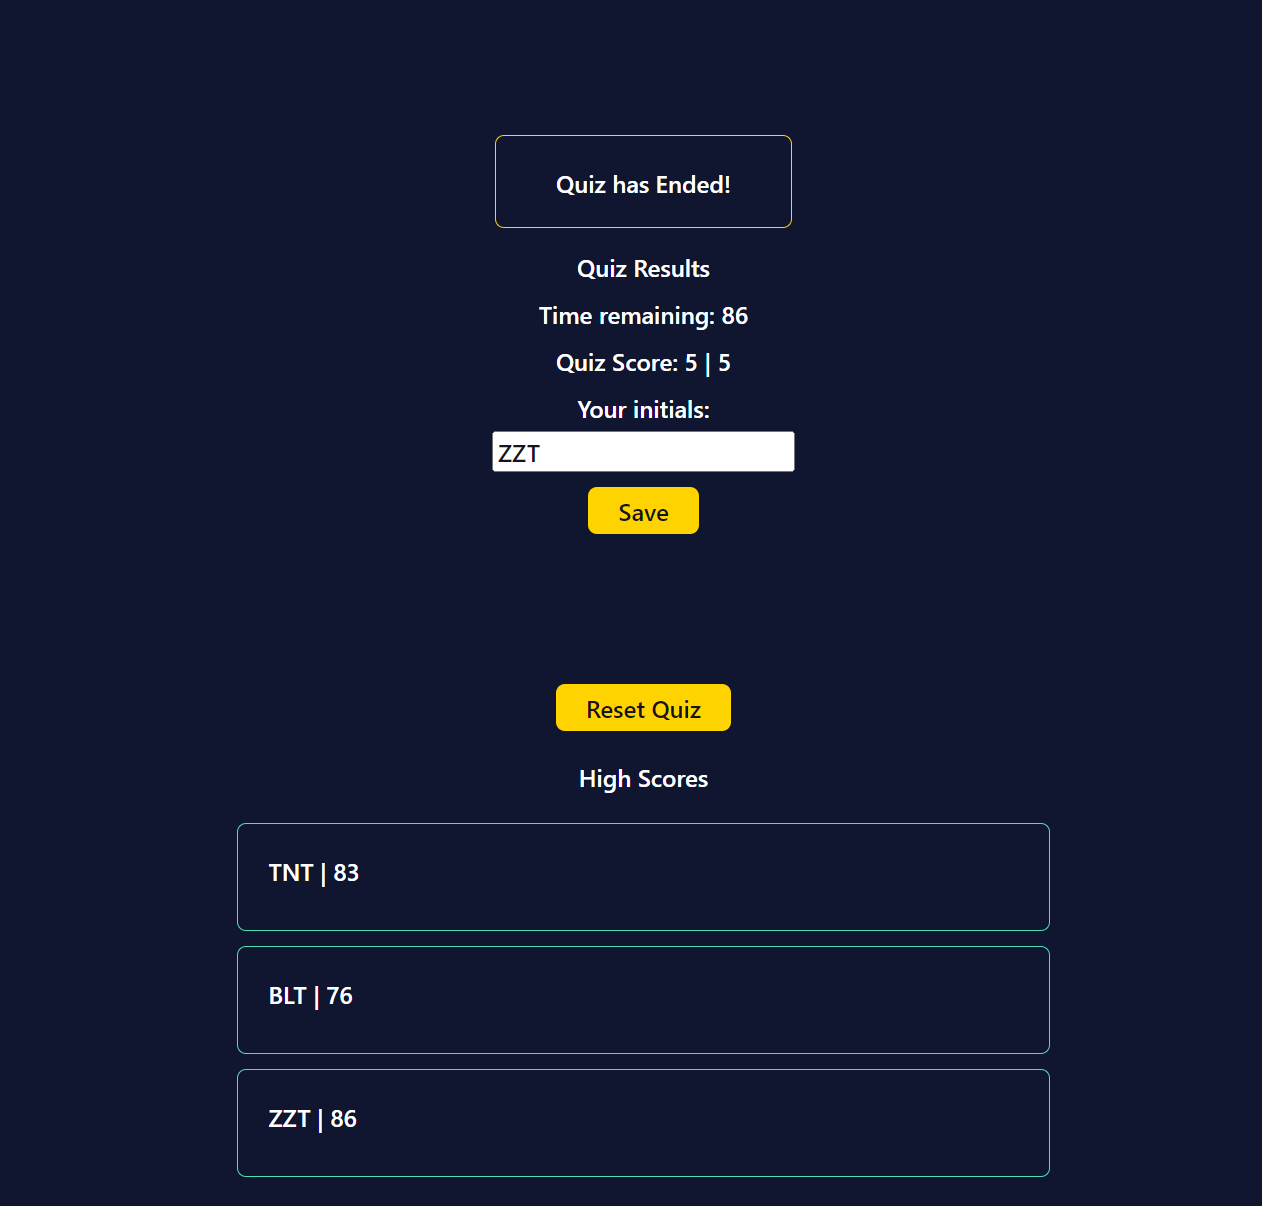
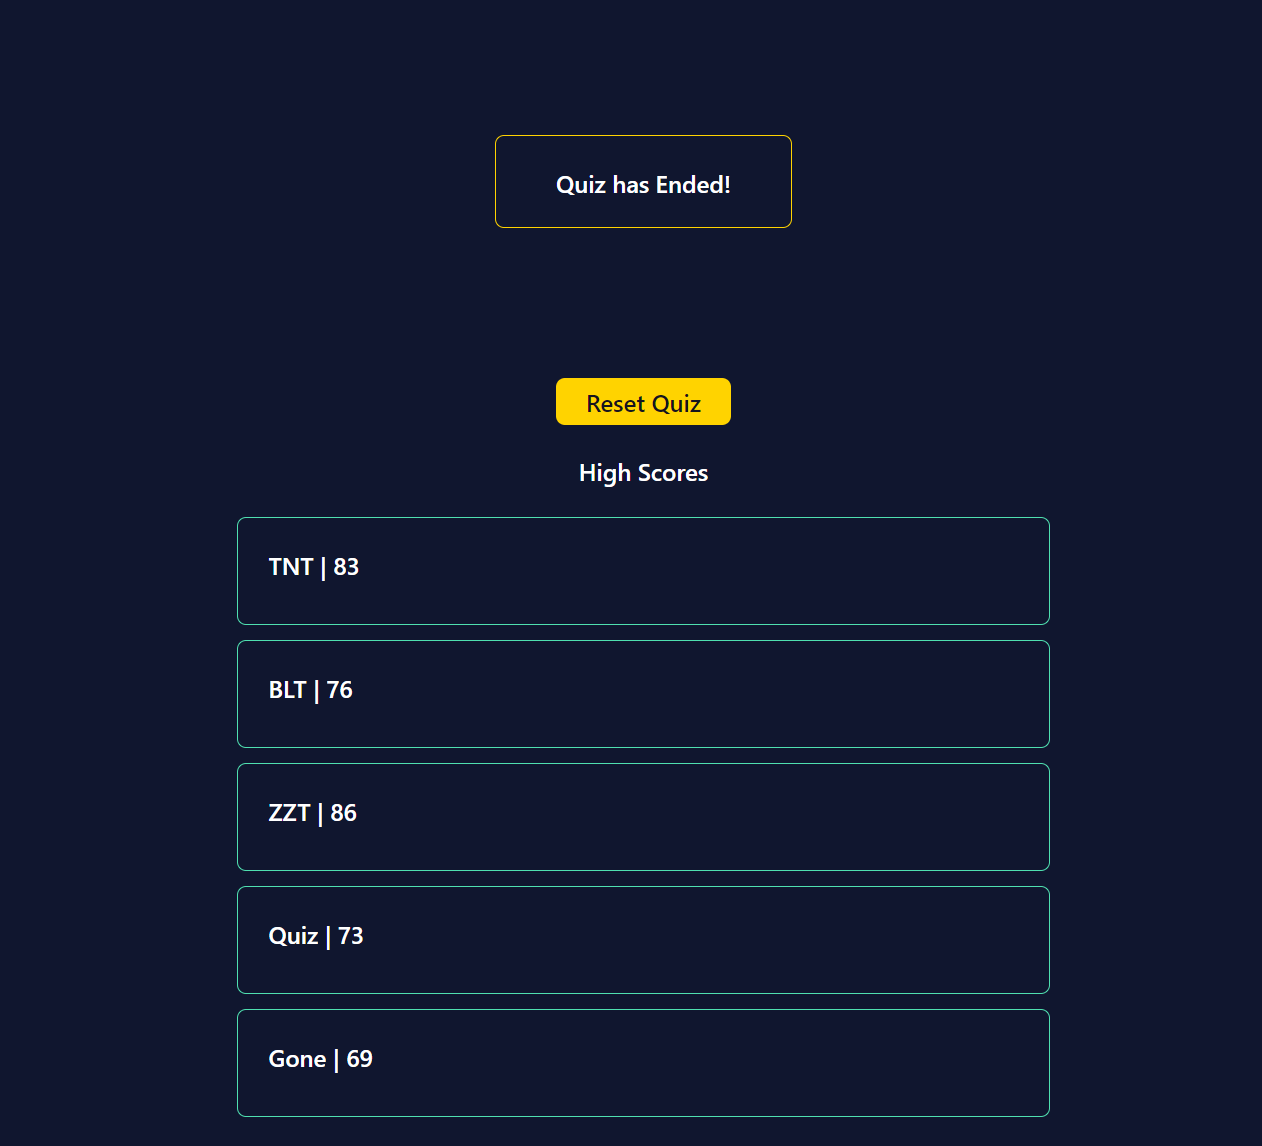
Cleaned up code, minor css fixes

diff --git a/assets/js/script.js b/assets/js/script.js
@@ -1,4 +1,4 @@
-//Object with collection of properties made up of key value pairs.
+// Object with collection of properties made up of key value pairs. Holds questions, choices and correct answer "ans".
 var interrogation = [
     {
         queryTitle: 'Which statement is true about while loops?',
@@ -42,26 +42,26 @@ var interrogation = [
     },
 ];
 
-//Starting variables. Score and quiz index value.
+// Starting variables. Score and quiz index value.
 var quizScore = 0;
 var quizIndex = 0; 
 
-//Variables that access elements on the page. 
+// Variables that access elements on the page. 
 var quizClock = document.querySelector("#quizClock");
 var quizStart = document.querySelector("#quizStart");
 var quizQueries = document.querySelector("#quizQueries");
-var mainWrapper = document.querySelector("#mainWrapper");
+// var mainWrapper = document.querySelector("#mainWrapper");
 var quizRestart = document.querySelector('#quizRestart');
 var quizScores = document.querySelector('#quizScores');
 var quizScoreboard = document.querySelector('#quizScoreboard');
 
-//Variables for time left, time remaining, penalty, and creating a ul element. 
+// Variables for time left, time remaining, penalty, and creating a ul element. 
 var secondsRemain = 100;
 var quizPenalty = 5;
 var quizTimeInterval = 0;
 var quizUlElement = document.createElement('ul');
 
-//Take quiz button starts timer. First event listener and function.
+// Take quiz button starts timer. First event listener and function.
 quizStart.addEventListener('click', function (){
     if(quizTimeInterval === 0) {
         quizTimeInterval = setInterval(function (){
@@ -70,7 +70,9 @@ quizStart.addEventListener('click', function (){
 
             if (secondsRemain <= 0) {
                 clearInterval(quizTimeInterval);
-                quizComplete() // function defined on line 134.
+
+                // Calls function on line 135.
+                quizComplete() 
                 quizClock.textContent = "Quiz time has ended!";
             }            
         }, 1000);
@@ -78,7 +80,7 @@ quizStart.addEventListener('click', function (){
     quizDisplay(quizIndex); //function defined on line 83.
 });
 
-//Function that displays the user choices.
+// Function that displays the user choices.
 function quizDisplay(quizIndex) {
     quizQueries.innerHTML = "";
     quizUlElement.innerHTML = "";
@@ -98,13 +100,13 @@ function quizDisplay(quizIndex) {
     })
 };
 
-//Function that compares choices with the correct answer.
+// Function that compares choices with the correct answer.
 function quizCompare(event) {
     var quizElement = event.target;
 
     if (quizElement.matches('li')){
         var quizDivCreate = document.createElement('div');
-        quizDivCreate.setAttribute('id', 'quizDiv'); //add this selector to the css file.
+        quizDivCreate.setAttribute('id', 'quizDiv');
         
         if(quizElement.textContent == interrogation[quizIndex].ans) {
             quizScore++;
@@ -115,10 +117,10 @@ function quizCompare(event) {
         };
     };
 
-    //Increments the index value by one.
+    // Increments the index value by one.
     quizIndex++;
 
-    //Completed quiz, display score and time remaining.     
+    // Completed quiz, display score and time remaining.     
     if (quizIndex >= interrogation.length) {
         quizComplete();
         var removeQuizDiv = document.querySelector('#quizDiv');
@@ -129,17 +131,17 @@ function quizCompare(event) {
     quizQueries.appendChild(quizDivCreate);
 };
 
-//Clears the quiz query content and replaces the clock with a message when quiz has ended.
+// Clears the quiz query content and replaces the clock with a message when quiz has ended.
 function quizComplete () {
     quizQueries.innerHTML = '';
     quizClock.innerHTML = 'Quiz has Ended!';
 
     var quizH1Element = document.createElement('h1');
-    quizH1Element.setAttribute('class', 'results') //define an id value here
+    quizH1Element.setAttribute('class', 'results')
     quizH1Element.textContent = 'Quiz Results';
     quizQueries.appendChild(quizH1Element);
 
-    //Variables to store user initials input.
+    // Display quiz time remaing after quiz has ended.
     if (secondsRemain >=0) {
         var secondsLeftOver = secondsRemain;
         var quizP2Element = document.createElement('p');
@@ -155,14 +157,14 @@ function quizComplete () {
         quizQueries.appendChild(scoreDivCreate); 
     };
 
-    //label for quiz taker initials form field
+    // Label for quiz taker initials form field
     var quizLabel = document.createElement('label')
     quizLabel.setAttribute('class', "results");
     quizLabel.textContent = 'Your initials: ';
 
     quizQueries.appendChild(quizLabel);
 
-    //quiz taker initials input
+    // Input field for user initials.
     var initialsInput = document.createElement('input');
     initialsInput.setAttribute('type', 'text');
     initialsInput.setAttribute('id', 'initialsField');
@@ -170,15 +172,14 @@ function quizComplete () {
 
     quizQueries.appendChild(initialsInput);
 
-    //quiz taker initials submit button
+    // Button to submit user initials.
     var InitialsSubmit = document.createElement('button');
     InitialsSubmit.setAttribute('type', 'submit');
-    // InitialsSubmit.setAttribute('id', '');
     InitialsSubmit.textContent = 'Save';
 
     quizQueries.appendChild(InitialsSubmit);
 
-    //Restart quiz
+    // Restart quiz
     var quizResetButton = document.createElement('button');
     quizResetButton.textContent = 'Reset Quiz';
 
@@ -189,7 +190,7 @@ function quizComplete () {
         window.location = "./index.html";
     });
 
-        //Event listener for user initials input and storage of input
+        // Event listener for user initials input and storage of input.
         InitialsSubmit.addEventListener('click', function(){
         var yourInitials = initialsInput.value;
 
@@ -210,8 +211,12 @@ function quizComplete () {
             } else {
                 historicalScores = JSON.parse(historicalScores);
             };
+
+            // Remove input field after user submits initials.
+            var removeInputForm = document.querySelector('#quizQueries');
+            removeInputForm.remove();
             
-            //Combine new user score with previous user scores
+            // Combine new user score with previous user scores.
             historicalScores.push(quizFinalScore);
 
             var newHistoricalScores = JSON.stringify(historicalScores);
@@ -230,20 +235,4 @@ function quizComplete () {
             }; 
         };
     });
-
 };
-
-
-//Acceptance Criteria
-//
-// GIVEN I am taking a code quiz
-// WHEN I click the start button
-// THEN a timer starts and I am presented with a question
-// WHEN I answer a question
-// THEN I am presented with another question
-// WHEN I answer a question incorrectly
-// THEN time is subtracted from the clock
-// WHEN all questions are answered or the timer reaches 0
-// THEN the game is over
-// WHEN the game is over
-// THEN I can save my initials and my score

diff --git a/assets/css/style.css b/assets/css/style.css
@@ -1,113 +1,126 @@
-/* Color choices
-#FF1E0D -red / incorrect-answer-color
-#FFD300 -yellow / active-button-background-color
-#707382 -grey1 / inactive-button-background-color
-#15141F -black1 / footer-background-color
-#10162F -darkblue1 / page-background-color 
-#4FE0B0 -green-cyan / text-emphasis-color
-#141C3A -darkblue2 / button-background-color
-#2D5DCC -blue / box-border-color
-#FFFFFF -white / text-color
-
-*/
-
 /*Universal Selector*/
 * {
-    margin: 0;
-    font-family: 'Segoe UI', Tahoma, Geneva, Verdana, sans-serif;
-    color: #fff;
-    font-size: 16px;
-    font-weight: 600;
-    list-style-type: none;
-    text-decoration: none;    
+  margin: 0;
+  font-family: 'Segoe UI', Tahoma, Geneva, Verdana, sans-serif;
+  color: #fff;
+  font-size: 16px;
+  font-weight: 600;
+  list-style-type: none;
+  text-decoration: none;    
 }
 
 /*Element selectors*/
 
 body {
-    background-color: #10162F;
+  background-color: #10162F;
 }
 
-
 li {
-    color: #fff;
-    border: solid 1px #4FE0B0; 
-    border-radius: 6px;
-    padding: 20px;
-    margin: 10px;
-    min-width: 500px;
-    min-height: 30px;
+  color: #fff;
+  border: solid 1px #4FE0B0; 
+  border-radius: 6px;
+  padding: 20px;
+  margin: 10px;
+  min-width: 500px;
+  min-height: 30px;
 }
 
 ul {
-    padding: 10px;
-    color: #fff;
+  padding: 10px;
+  color: #fff;
 }
 
 /* Button style */
 button {
-    background-color: #ffd300;
-    color: #15141F;
-    border-radius: 6px;
-    border: none;
-    padding: 5px 20px;
-    margin: 10px;
+  background-color: #ffd300;
+  color: #15141F;
+  border-radius: 6px;
+  border: none;
+  padding: 5px 20px;
+  margin: 10px;
 }
 
 button:hover {
-background-color: #4FE0B0;
-opacity: 0.9;
+  background-color: #4FE0B0;
+  opacity: 0.9;
 }
 
 /* Class selectors */
 
 .results {
-    padding: 5px;
+  padding: 5px;
 }
 
 /* ID selectors */
 
 #mainWrapper{
-    display: flex;
-    flex-direction: column;
-    justify-content: center;
-    align-items: center;
-    padding: 40px;
-    margin: 40px;
+  display: flex;
+  flex-direction: column;
+  justify-content: center;
+  align-items: center;
+  padding: 40px;
+  margin: 40px;
 }
 
 #quizClock {
-    height: 20px;
-    min-width: 100px;
-    border: solid 1px #ffd300; 
-    border-radius: 6px;
-    padding: 20px 40px;
-    margin: 10px;
-
+  height: 20px;
+  min-width: 100px;
+  border: solid 1px #ffd300; 
+  border-radius: 6px;
+  padding: 20px 40px;
+  margin: 10px;
 }
 
 #quizQueries {
-    display: flex;
-    flex-direction: column;
-    align-items: center;
-    min-height: 200px;
+  display: flex;
+  flex-direction: column;
+  align-items: center;
+  min-height: 200px;
+  max-width: 500px;
+}
 
+#quizDiv {
+  min-width: 500px;
+  padding: 20px;
+  margin: 10px;
 }
 
 #quizScoreboard {
-    display: flex;
-    flex-direction: column-reverse;
-    min-width: 100px;
-    align-items: center;
+  display: flex;
+  flex-direction: column-reverse;
+  min-width: 100px;
+  align-items: center;
 }
 
 #quizRestart {
-    display: flex;
-    justify-content: center;
-    margin: 10px;
+  display: flex;
+  justify-content: center;
+  margin: 10px;
 }
 
 /* Form styling */
 #initialsField {
-    color: #15141F;
+  color: #15141F;
+}
+
+/* For smaller screen sizes */
+@media only screen and (max-width: 570px) {
+  #quizClock {
+    height: 30px;
+  }
+
+  li {
+    min-width: 250px;
+    min-height: 50px;
+  }
+
+  #quizDiv {
+    min-width: 250px;
+  }
+}
+  
+@media only screen and (max-width: 410px) {
+  #quizClock {
+    height: 50px;    
+  }   
 }

diff --git a/index.html b/index.html
@@ -11,15 +11,14 @@
 <body>
     <div id="mainWrapper">
       <div id="quizClock">Question Count: 5 | Time limit: 1min 40s</div>
-        <div id="quizQueries">
-          <ul id="quizChoices"></ul>
-          <button id="quizStart">Take Quiz</button>  
-        </div>
+      <div id="quizQueries">
+        <ul id="quizChoices"></ul>
+        <button id="quizStart">Take Quiz</button>  
+      </div>
     </div>
     <div id="quizRestart"></div>
     <div id="quizScoreboard">
         <ul id="quizScores"></ul>
     </div>
-
 </body>
 </html>
